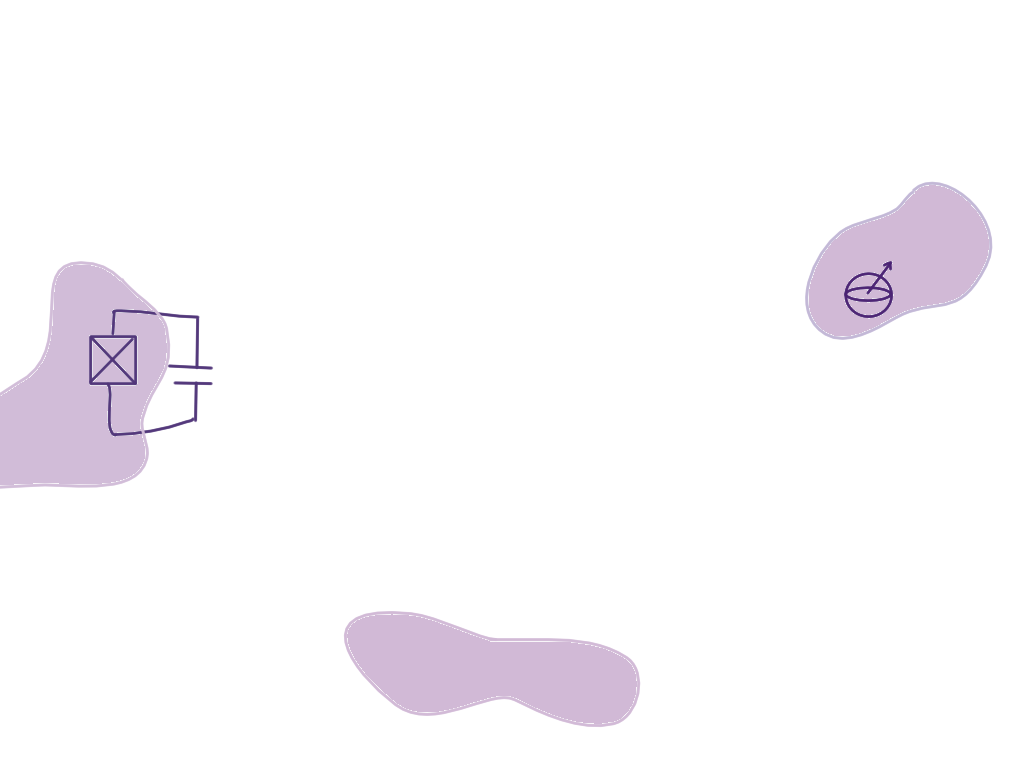
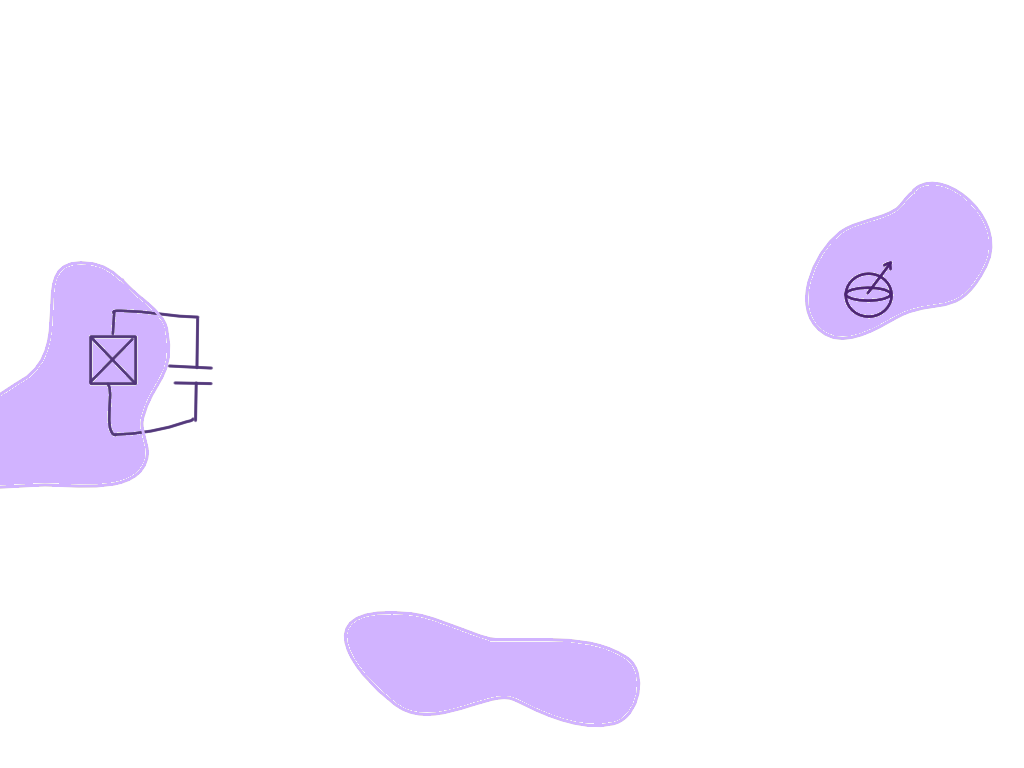
unique background color on the home page

Changed region(s): [[0.0, 0.3438, 0.1875, 0.6562], [0.3125, 0.7812, 0.625, 0.9688], [0.7812, 0.2188, 0.9688, 0.4375]]

diff --git a/tutorials/2_vqregressor.md b/tutorials/2_vqregressor.md
@@ -6,6 +6,13 @@ excerpt: 'Using a variational quantum circuit to fit one dimensional functions.'
 
 ## A variational quantum regressor using the parameter shift rule
 
+Code at [https://github.com/qiboteam/qibo/tree/vqregressor/examples/vqregressor](https://github.com/qiboteam/qibo/tree/master/examples/vqregressor).
+
+### Problem overview
+
+We want to tackle a simple one dimensional regression problem using a single qubit Variational Quantum Circuit (VQC) as model, initialized using a [re-uploading strategy](https://arxiv.org/abs/1907.02085). In particular, in this example we
+fit the function y = sin(2x), picking the x points from the interval I=[-1,1].
+
 * goal 1
 * goal 2
 
